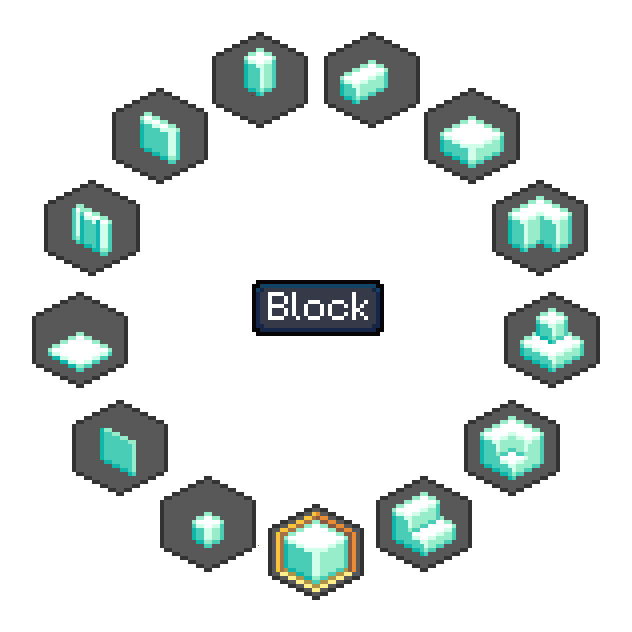
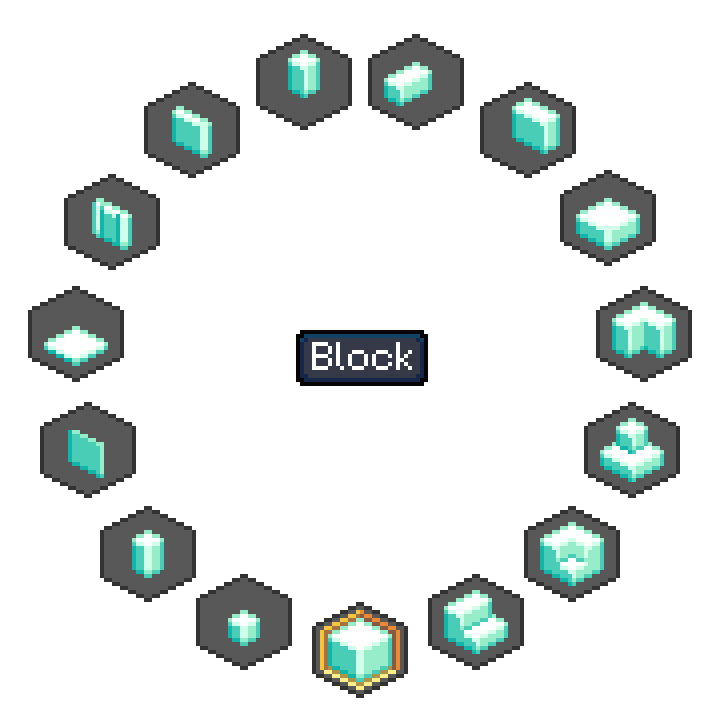
Increased radial menu radius and updated preview image

Changed region(s): [[0.0301, 0.0301, 0.962, 0.9921], [0.3908, 0.4209, 0.6313, 0.5411]]

diff --git a/Patches/BlockVariantsPatch.cs b/Patches/BlockVariantsPatch.cs
@@ -159,13 +159,13 @@ internal static class BlockVariantsPatch
     [HarmonyPatch(nameof(Block.OnRadialOpen))]
     internal static bool OnRadialOpen(PlayerEntity player, UIRadialMenu menu)
     {
-        menu.AddItem(new RadialItem(0, 224, nameof(Block)), 60);
+        menu.AddItem(new RadialItem(0, 224, nameof(Block)), 72);
         for (var i = 0; i < Variants.Length; i++)
         {
             var variant = Variants[i];
             menu.AddItem(
                 new RadialItem(UIRendererPatch.TextureMarker, variant.TextureId, variant.Name),
-                60
+                72
             );
         }
         return false;

diff --git a/README.md b/README.md
@@ -18,6 +18,10 @@ Thanks to _Mirage_ and other community members in [this suggestions thread](http
 
 ## Changelog
 
+### 1.1.1
+
+- Slightly increased radial menu radius to better fit all the items
+
 ### 1.1.0
 
 - Updated to Allumeria 0.15 early access release
